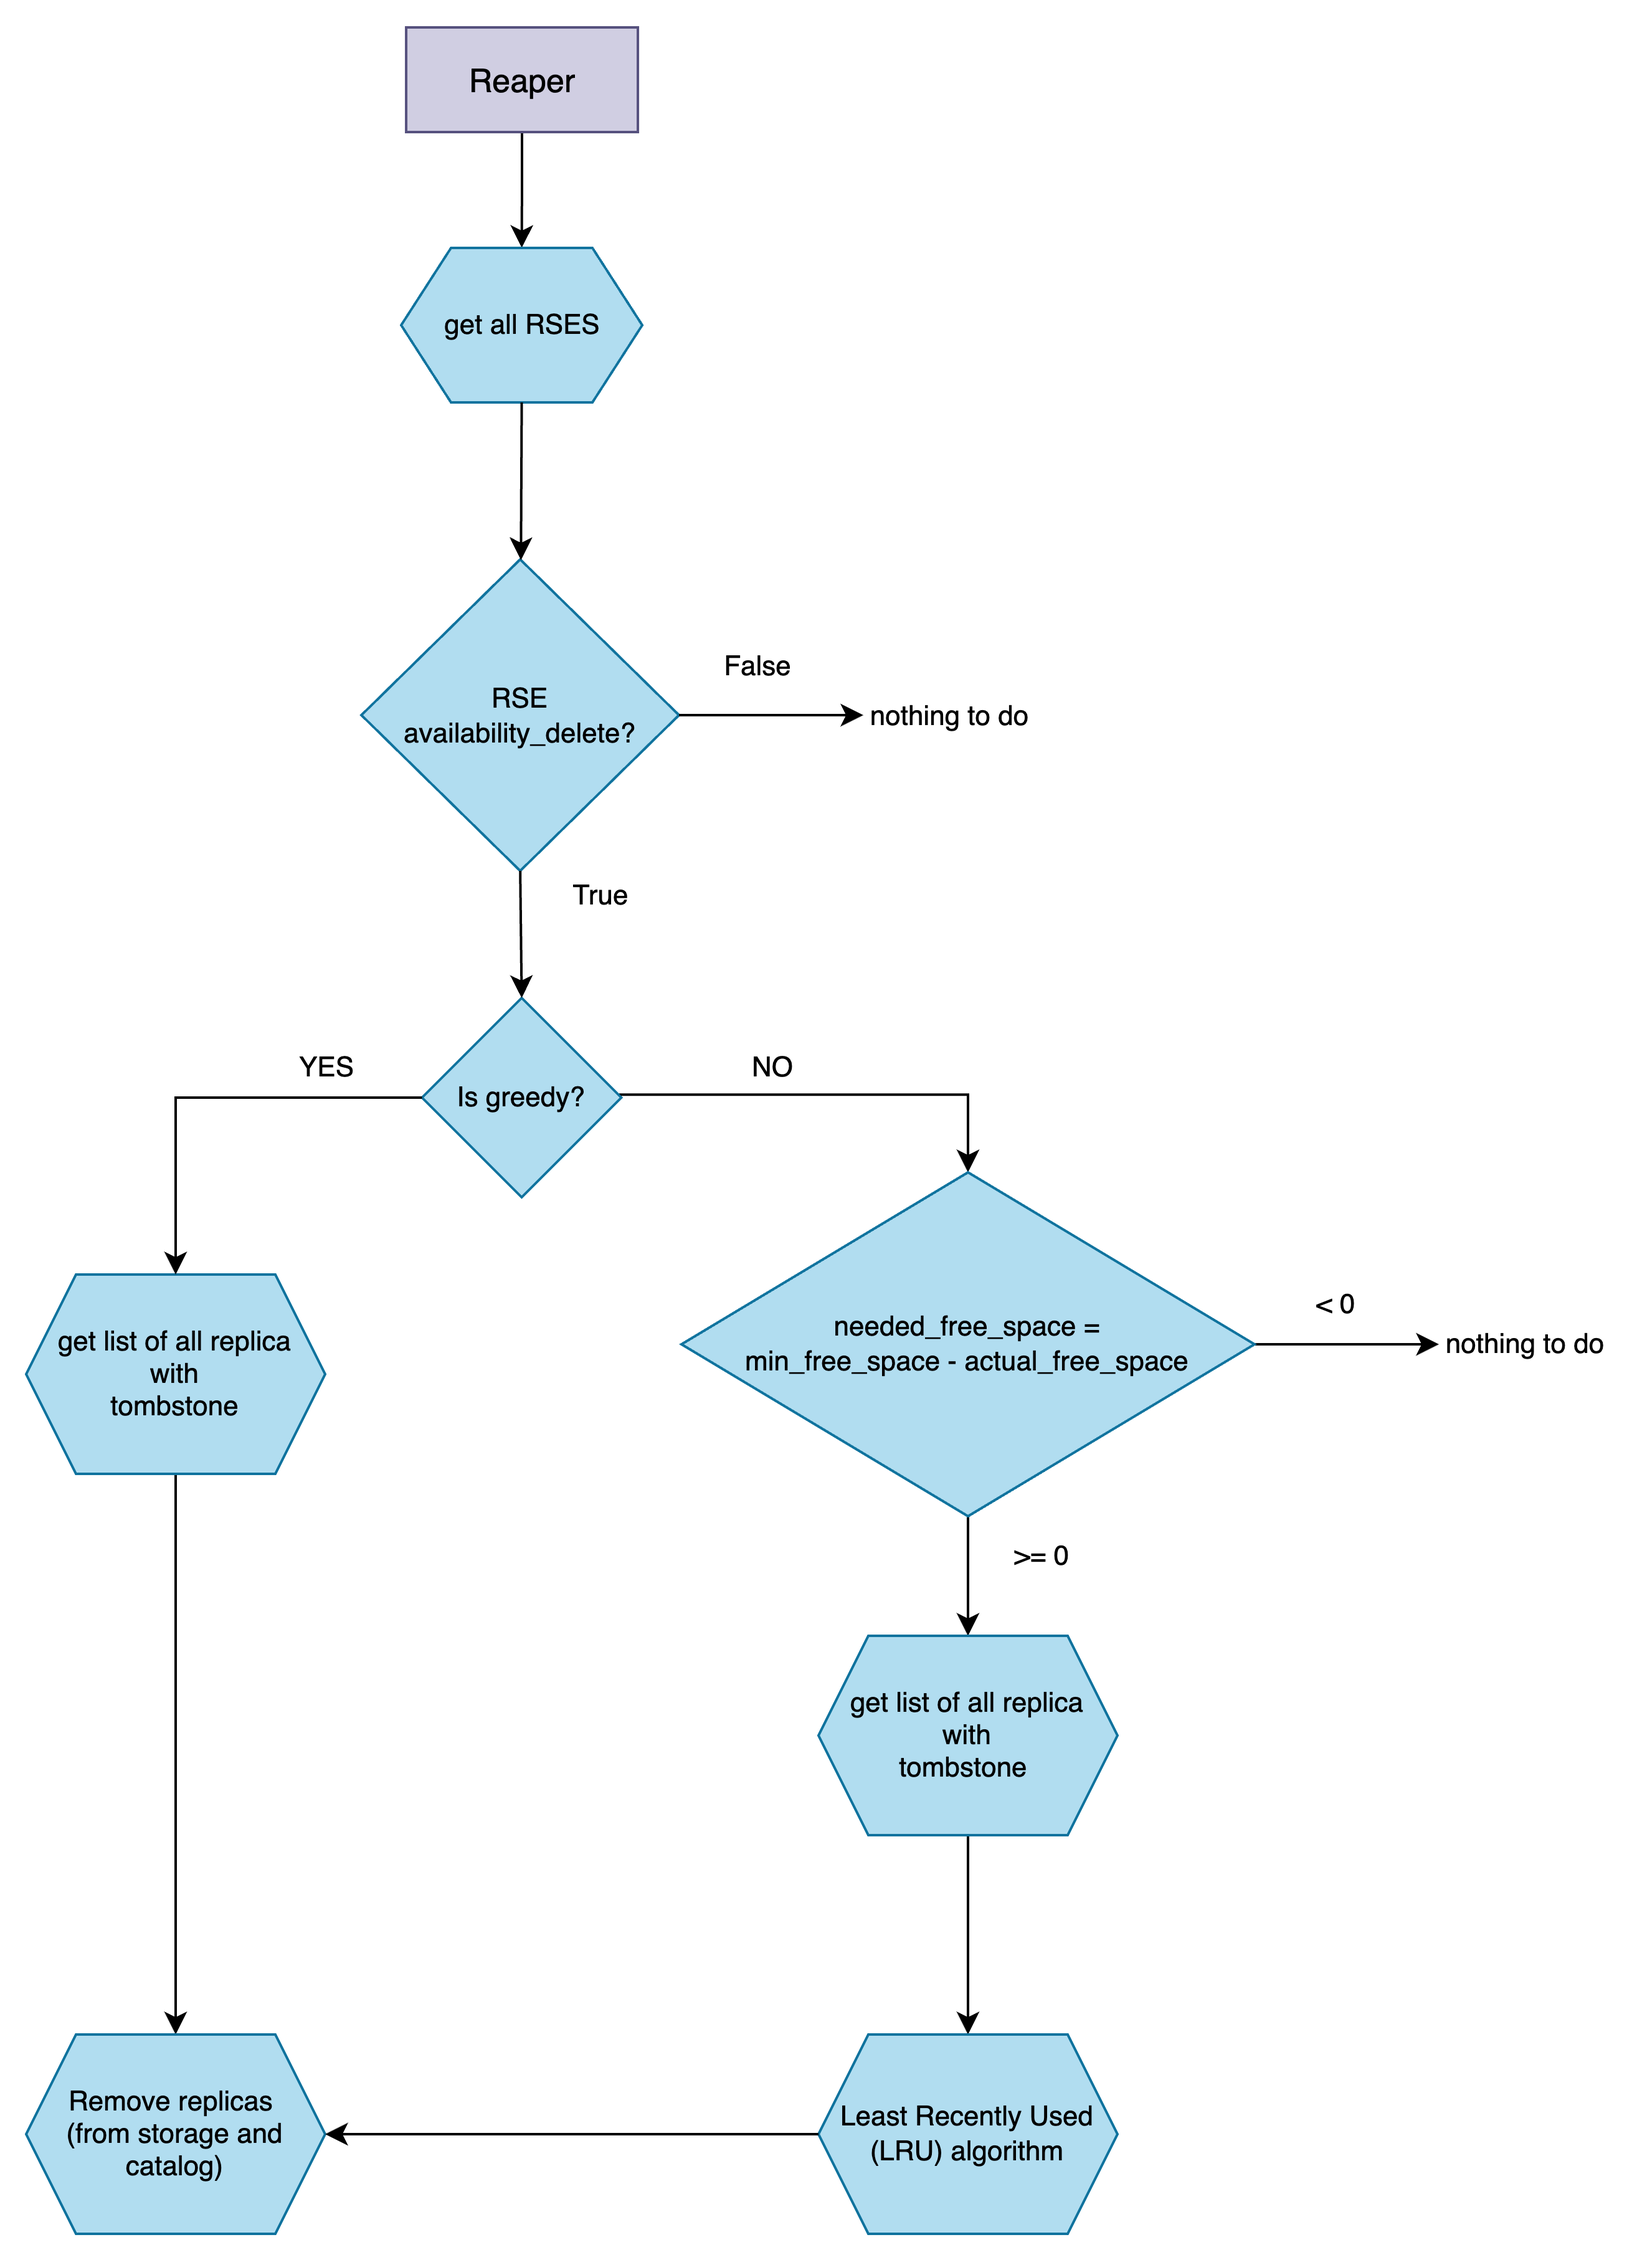
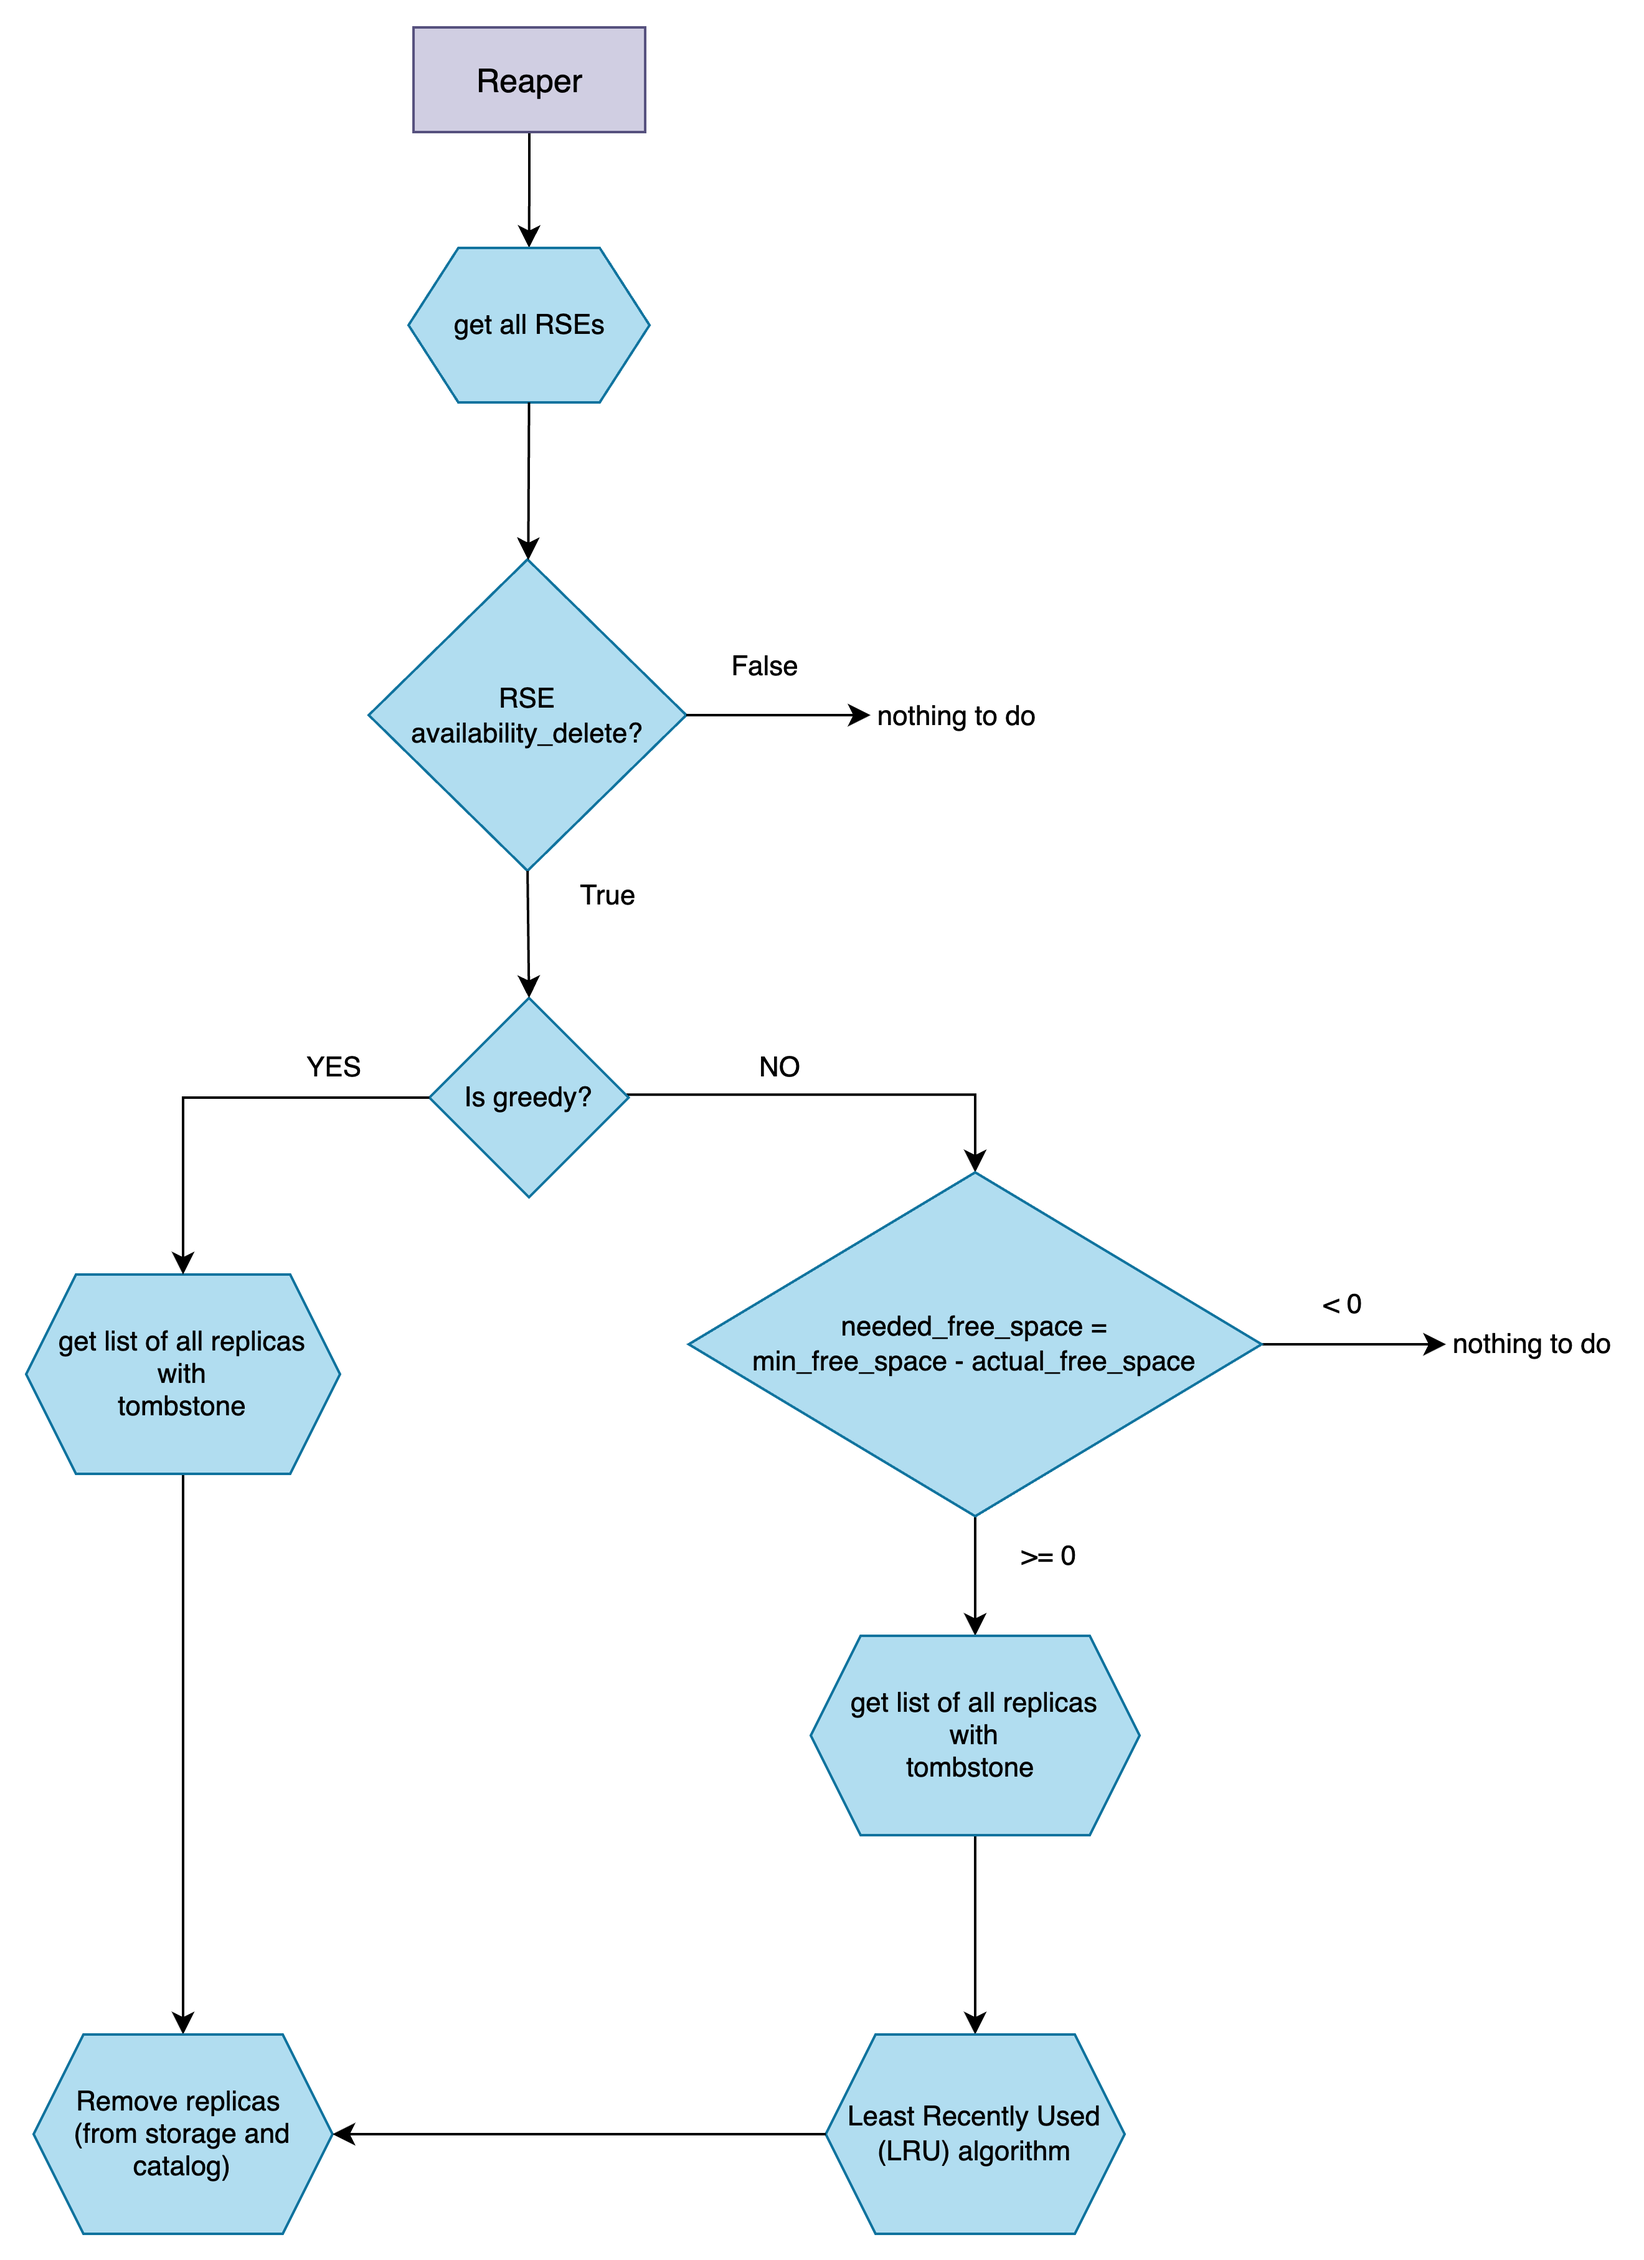
doc: address comments rucio#228

diff --git a/docs/started/concepts/deletion_overview.md b/docs/started/concepts/deletion_overview.md
@@ -3,35 +3,35 @@ id: deletion-overview
 title: Deletion Overview
 ---
 
-Deletion in rucio can be performed in broadly two ways.
+Deletion in Rucio can be performed in broadly two ways.
 
 - Rule based deletion:
 
-    Each rule has a corresponding lifetime associated with it (default is None). The attribute `expires at` of the rule is the time when the lifetime is set plus the lifetime associated with rule.
+    Each rule has a corresponding lifetime associated with it (default is None). The attribute `expires_at` of the rule is the time when the lifetime is set plus the lifetime associated with the rule.
     Additionally each rule can be `locked` for additional protection. If a rule is locked the rule is protected from expiration.
     The `Judge-cleaner` daemon is responsible for handling expired rules. If an expired rule is not locked it sets `tombstones` on all replicas not covered by the rule anymore (or any other rule). These replicas then become eligible for deletion.
 
 - DID based deletion:
 
-    Additionally, each did also has a lifetime associated with it (default is None). The metadata `expires_at` of the did is calculated similarly to a rule.
-    The `Undertaker` daemon is responsible for handling expired dids. The daemon checks if none of the associated rules to the did are locked, if not it removes all rules of the did (see section above). The did itself is then removed from the catalog.
+    Additionally, each DID also has a lifetime associated with it (default is None). The metadata `expires_at` of the DID is calculated similarly to a rule.
+    The `Undertaker` daemon is responsible for handling expired DIDs. The daemon checks if none of the associated rules to the DID are locked, if not it removes all rules of the DID (see section above). The DID itself is then removed from the catalog.
 
-**The did expiration overrules the rule expiration. But the locked rules are protected.**
+**The DID expiration overrules the rule expiration. But the locked rules are protected.**
 
 After the tombstone is set for replicas, the actual data deletion is done by the `Reaper` daemon. The reaper physically deletes the tombstoned replicas from storage.
 The deletion service supports two different modes: greedy and non-greedy.
 
 - Greedy
     
-    The reaper daemon gets all the replicas with tombstone in the RSE and immediately delete all replicas. 
+    The reaper daemon gets all the replicas with tombstone in the RSE and immediately deletes all replicas. 
     
 - Non-greedy
 
-    The reaper daemon first check if the free space is needed in the RSE. The needed free space is the difference of minimum free space (attrribute set for RSE) and actual free space in RSE. Deletion only occurs once free space is needed.
+    The reaper daemon first checks if the free space is needed in the RSE. The needed free space is the difference of minimum free space (attrribute set for RSE) and actual free space in RSE. Deletion only occurs once free space is needed.
     Deletions are processed by Least Recently Used (LRU) algorithm, thus oldest accessed (tombstoned) replicas are deleted first.
 
 
-![Judge-cleaner chart](/img/Judge-cleaner.png)
+![Judge-cleaner chart](/img/judge-cleaner.png)
 
 ![Undertaker chart](/img/undertaker.png)
 
